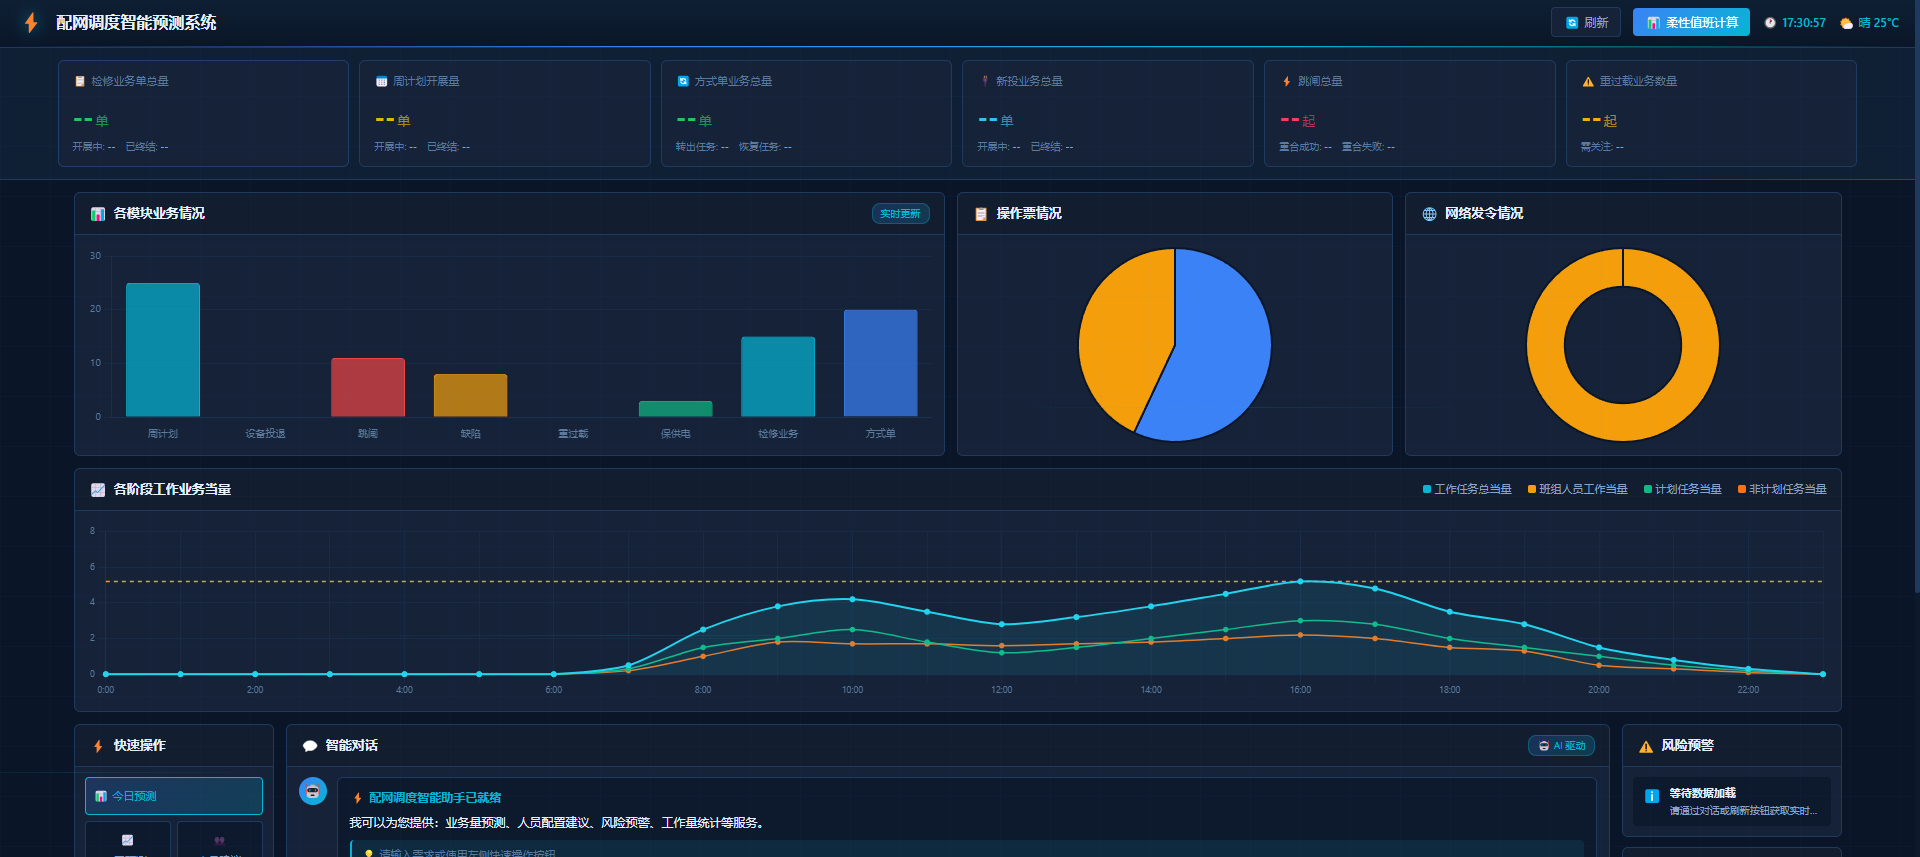
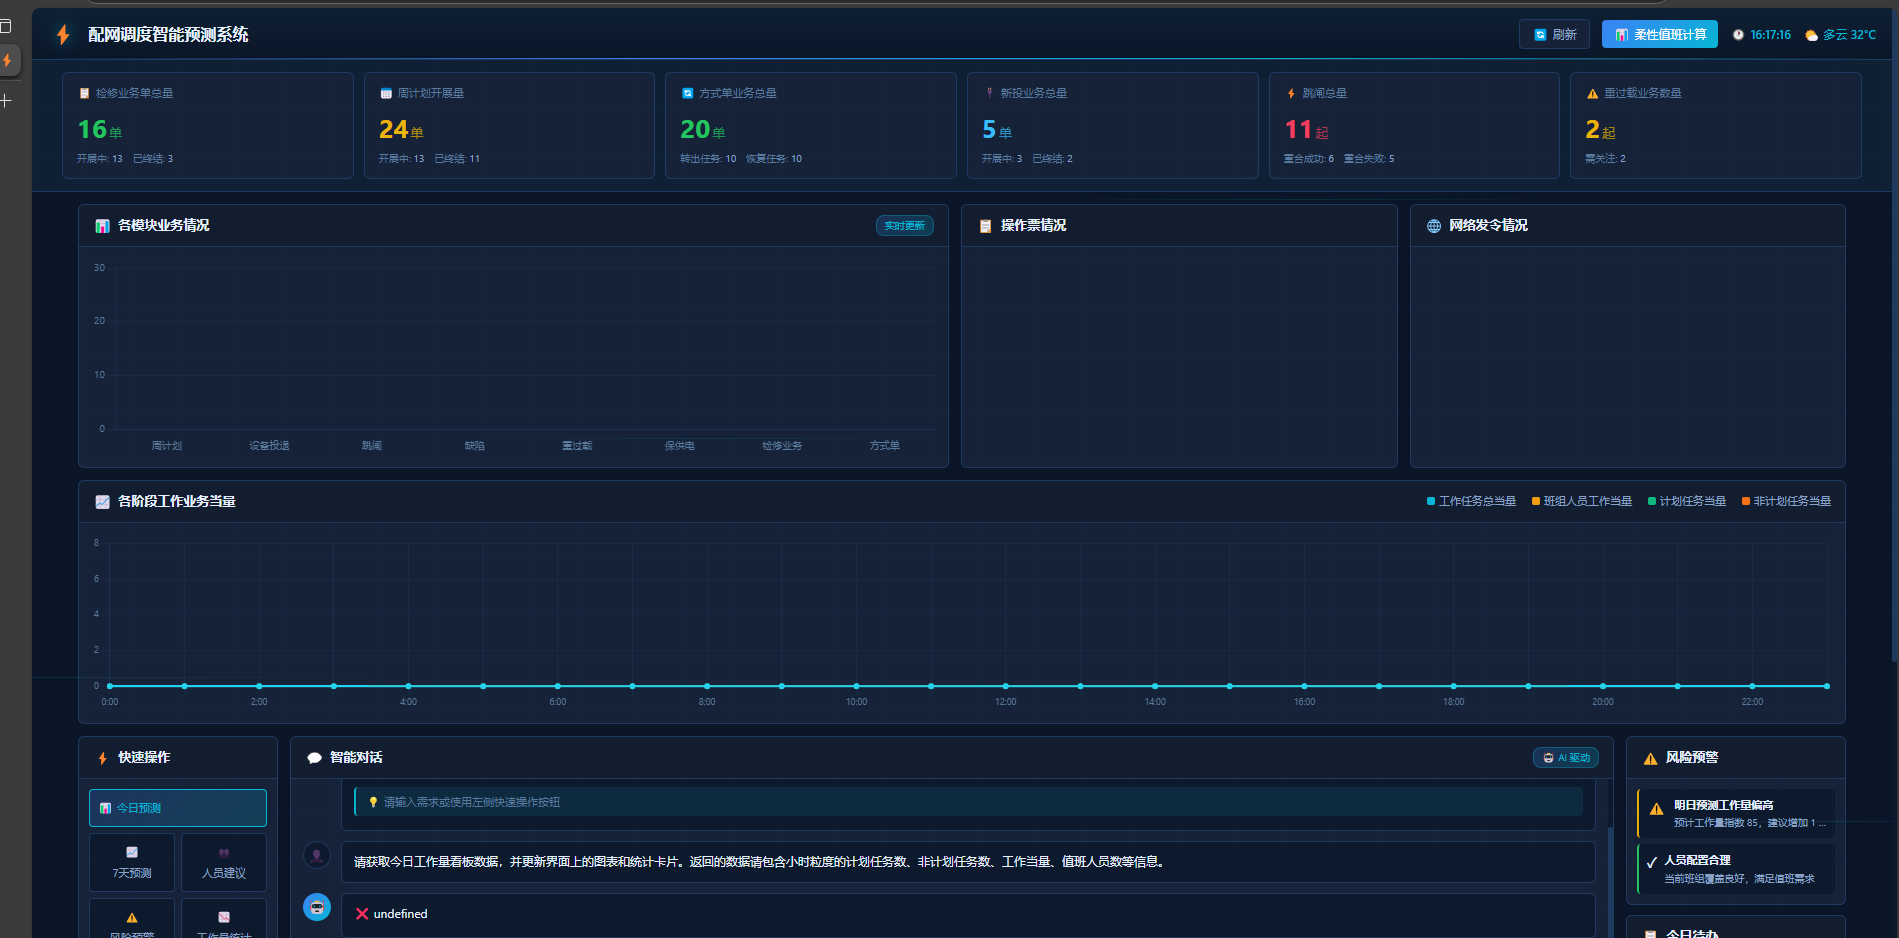
feat: 为整个页面添加完整的假数据展示效果

diff --git a/frontend/js/charts.js b/frontend/js/charts.js
@@ -44,10 +44,10 @@ function initModuleBusinessChart(data = null) {
         moduleBusinessChart.destroy();
     }
     
-    // 空数据（无模拟数据）
+    // 假数据展示效果
     const defaultData = {
         labels: ['周计划', '设备投退', '跳闸', '缺陷', '重过载', '保供电', '检修业务', '方式单'],
-        values: [0, 0, 0, 0, 0, 0, 0, 0]
+        values: [8, 5, 0, 3, 2, 4, 6, 7]
     };
     
     const chartData = data || defaultData;
@@ -130,10 +130,10 @@ function initTicketChart(data = null) {
         ticketChart.destroy();
     }
     
-    // 空数据（无模拟数据）
+    // 假数据展示效果
     const defaultData = {
         labels: ['指令记录', '逐项令', '综合令', '许可令'],
-        values: [0, 0, 0, 0]
+        values: [45, 28, 15, 12]
     };
     
     const chartData = data || defaultData;
@@ -192,10 +192,10 @@ function initNetworkOrderChart(data = null) {
         networkOrderChart.destroy();
     }
     
-    // 空数据（无模拟数据）
+    // 假数据展示效果
     const defaultData = {
         labels: ['逐项令', '许可令'],
-        values: [0, 0]
+        values: [28, 12]
     };
     
     const chartData = data || defaultData;
@@ -259,13 +259,13 @@ function initWorkloadTimelineChart(data = null) {
         timeLabels.push(`${i}:00`);
     }
     
-    // 空数据（无模拟数据）
+    // 假数据展示效果 - 24小时工作量分布
     const defaultData = {
         labels: timeLabels,
-        workloadTotal: Array(24).fill(0),
-        staffCapacity: Array(24).fill(0),
-        plannedTask: Array(24).fill(0),
-        unplannedTask: Array(24).fill(0)
+        workloadTotal: [2.5, 2.1, 2.0, 1.8, 1.5, 1.8, 3.2, 4.5, 5.8, 6.2, 5.9, 5.5, 5.8, 6.0, 6.3, 6.5, 6.2, 5.8, 5.2, 4.8, 4.2, 3.8, 3.2, 2.8],
+        staffCapacity: Array(24).fill(5.2),
+        plannedTask: [1.8, 1.5, 1.4, 1.2, 1.0, 1.2, 2.2, 3.2, 4.0, 4.2, 4.0, 3.8, 4.0, 4.2, 4.4, 4.5, 4.2, 4.0, 3.6, 3.2, 2.8, 2.6, 2.2, 1.8],
+        unplannedTask: [0.7, 0.6, 0.6, 0.6, 0.5, 0.6, 1.0, 1.3, 1.8, 2.0, 1.9, 1.7, 1.8, 1.8, 1.9, 2.0, 2.0, 1.8, 1.6, 1.6, 1.4, 1.2, 1.0, 1.0]
     };
     
     const chartData = data || defaultData;

diff --git a/frontend/js/app.js b/frontend/js/app.js
@@ -561,11 +561,10 @@ document.addEventListener('DOMContentLoaded', function() {
         inputEl.focus();
     }
     
-    // 尝试加载实时数据（通过对话方式）
-    // 由于没有直接的API端点，我们通过发送对话请求获取数据
-    setTimeout(() => {
-        loadRealTimeData();
-    }, 1000);
-    
-    console.log('⚡ 配网调度业务量智能预测系统已加载');
+    // 注释：暂时不自动加载实时数据，使用假数据展示效果
+    // setTimeout(() => {
+    //     loadRealTimeData();
+    // }, 1000);
+
+    console.log('⚡ 配网调度业务量智能预测系统已加载（使用假数据展示）');
 });

diff --git a/frontend/index.html b/frontend/index.html
@@ -291,7 +291,7 @@
                             </div>
                             <div class="status-row">
                                 <span class="status-label">最后更新</span>
-                                <span class="status-text" id="lastUpdate">--:--</span>
+                                <span class="status-text" id="lastUpdate">16:20</span>
                             </div>
                         </div>
                     </div>